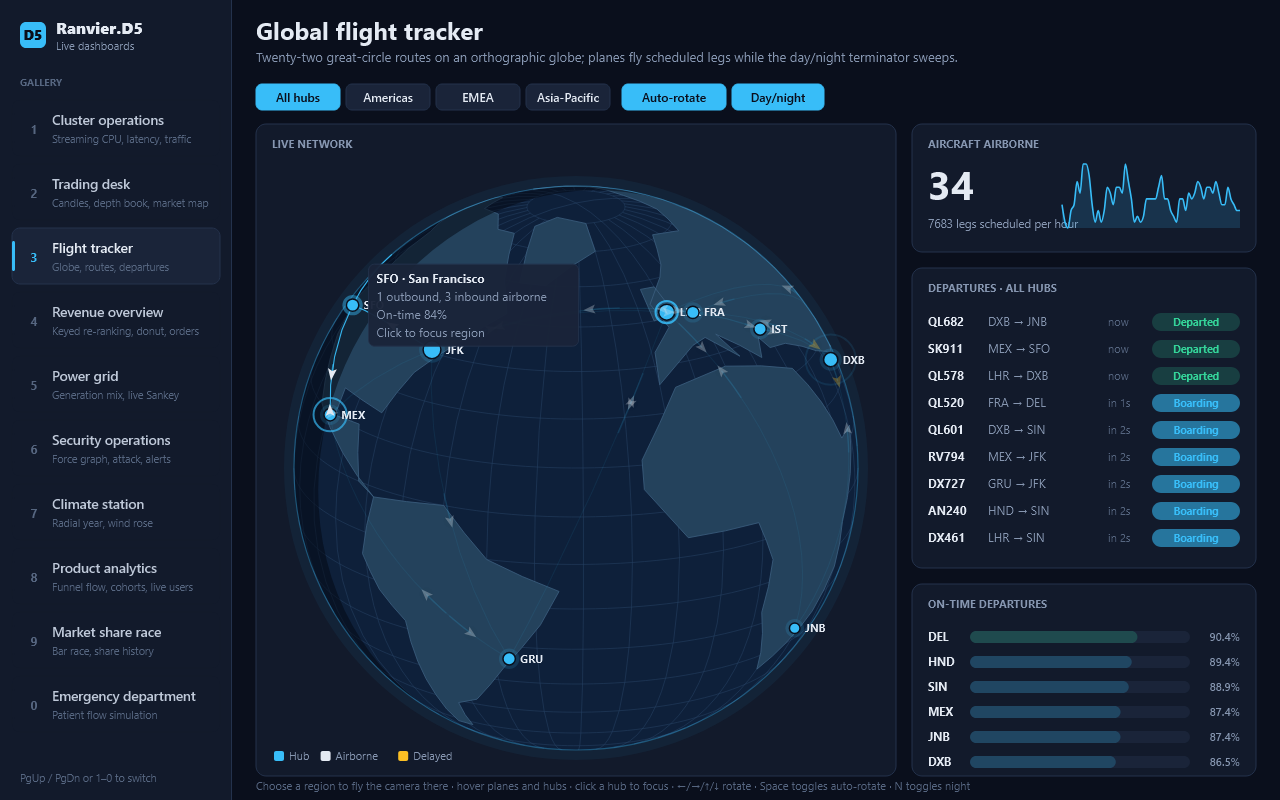
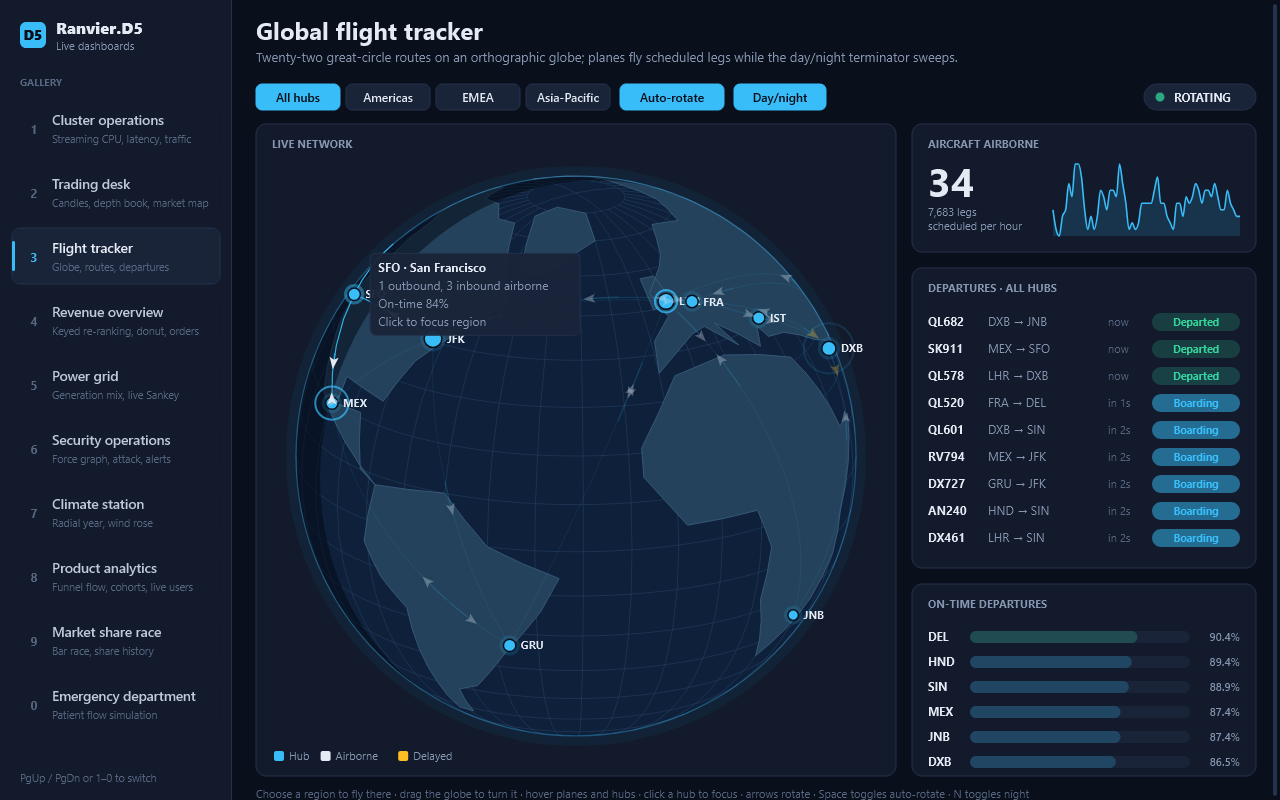
Share responsive helpers in the kit and keep every dashboard's input pure
Pages are laid out by Kit.frame, which input handling can also call, and the shell sends
Input.Viewport when the content size changes, so the flight tracker turns drag pixels into
degrees without a mutable radius. The kit gains local, dimmed, fitting and stepperTool from
the dashboards that needed them, tooltips clamp on both sides, and the fixed-size shim is gone.
The README describes the responsive layout and shared behaviours, the capture probes taller
toolbars, and resize captures stay out of the documented snapshots.

diff --git a/tools/document-snapshots.py b/tools/document-snapshots.py
@@ -13,6 +13,9 @@ for name in ["gallery","linked","hierarchy","tiling","hierarchy-charts","hierarc
 dashboards=out/"dashboards"
 dashboards.mkdir(parents=True,exist_ok=True)
 for source in sorted((root/"artifacts"/"dashboards").glob("*.bmp")):
+    # Only the default-size capture is documented; <id>-<W>x<H> resize captures and <id>-frozen failures stay in artifacts.
+    if "-" in source.stem:
+        continue
     with Image.open(source) as native:
         native.convert("RGB").save(dashboards/(source.stem+".png"),optimize=True)
         print(f"dashboards/{source.stem}: {native.width}x{native.height}, native capture -> PNG")

diff --git a/examples/Ranvier.D5.Dashboards/README.md b/examples/Ranvier.D5.Dashboards/README.md
@@ -27,6 +27,48 @@ Native events reach the model like this:
 - **Pointer position:** every move also sends the position in content coordinates, for crosshairs and scrubbing.
 - **Keys:** keyboard input arrives as `Input.Key`.
 
+Two more inputs support the responsive layout:
+
+- **Drag:** a press that starts on empty space and moves arrives as `Input.Drag`, which the flight tracker uses to turn
+  the globe.
+- **Viewport:** when the content size changes, the model receives `Input.Viewport`. Input handling can then call
+  `Kit.frame`, the layout that `Kit.page` draws from, to find a card's bounds. The flight tracker does this to turn drag
+  pixels into degrees of rotation.
+
+### Responsive layout
+
+Every dashboard's `View` takes the content viewport and returns a `Page`. `Kit.page` builds the page in four parts:
+
+- a title and summary, which wrap to the width;
+- a toolbar of `Tool`s that wraps onto more lines, with right-hand tools aligned right when they fit;
+- a grid of cards described as rows of `item grow min (cell key height)`;
+- the help line at the foot.
+
+A row splits into the fewest balanced lines in which every card keeps its minimum width. Line heights stretch, up to
+double, to fill tall windows. Each card draws from its own bounds, so plots, legends and gauges follow its size while
+text keeps a fixed size.
+
+The shell adapts to the window around the pages:
+
+- Below a 1000-pixel window, the sidebar collapses to a numbered rail.
+- A page taller than the window scrolls with the wheel.
+
+### Shared behaviours
+
+These behaviours live once in the shell or the Kit and apply to every dashboard:
+
+- **Style transitions:** `Kit.Transitions` eases every mark's opacity, fill, stroke and stroke width toward what the view
+  asks for, settling within about 200 ms. Hover emphasis and highlights therefore animate with no dashboard code.
+  Geometry is never eased, so streaming data does not lag.
+- **Geometric hover:** `Kit.Focus` keeps eased hover levels per item for effects such as lifting a donut slice.
+- **Axis extents:** `Kit.Extent` widens an axis at once to take in new values and relaxes it slowly, so the axis remembers
+  recent extremes.
+- **Clipped cards:** every card clips its body, so nothing in transit can draw outside its panel.
+- **Overlays:** groups made with `overlay`, such as crosshairs, cursors and tooltips, let the pointer through to the items
+  underneath.
+- **Preflight stylesheet:** in the spirit of Tailwind's base layer, nothing is selectable and text never takes the pointer.
+  Controls and data items show a pointer cursor, and only a writable field would show a text cursor.
+
 Motion comes from four mechanisms:
 
 - **Smoothing:** displayed values approach their targets with a frame-rate-independent exponential (`Kit.approach`).
@@ -57,9 +99,10 @@ dotnet run --project examples/Ranvier.D5.Dashboards -c Release -- --capture arti
 
 The capture runs in two stages.
 
-1. **Pure soak.** Each model runs for 20 simulated seconds. The soak clicks every control and hovers every item it
-   exposes, and composes a scene every fifth frame. It serialises every path, so duplicate keys and non-finite or
-   extreme coordinates fail with the offending mark's path.
+1. **Pure soak.** Each model runs for 20 simulated seconds. The soak clicks every control, hovers every item it exposes
+   and drags, and composes a scene every fifth frame at five window sizes, from 664 to 1920 pixels wide. It serialises
+   every path, so duplicate keys and non-finite or extreme coordinates fail with the offending mark's path. It also
+   fails on any card that leaves the page, and on any text that spills outside its card or the page.
 2. **Native checks.** For every dashboard, the run checks five things:
    - a real sidebar click opens it;
    - painted pixels keep changing, which shows it animates;
@@ -67,6 +110,10 @@ The capture runs in two stages.
    - a native pointer sweep reaches a hoverable data item;
    - native clicks on its toolbar controls change the view.
 
-   Keyboard navigation is checked once, after the last dashboard.
+   After the last dashboard, the run checks four more things:
+   - controls show a pointer cursor;
+   - each dashboard re-lays out at 1680x1000, 980x760 and 720x900;
+   - a page taller than the window scrolls with the wheel;
+   - keyboard navigation works.
 
-Each dashboard is written to `artifacts/dashboards/<id>.bmp`. Convert the captures with `python tools/document-snapshots.py`.
+Each dashboard is written to `artifacts/dashboards/<id>.bmp`, with `<id>-<W>x<H>.bmp` for the other sizes. Convert the captures with `python tools/document-snapshots.py`.
